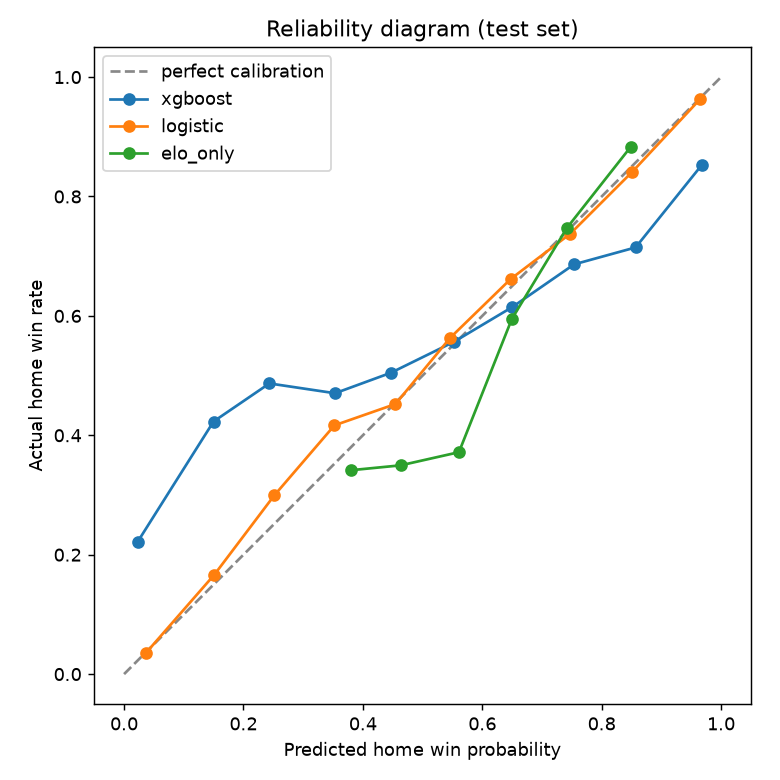
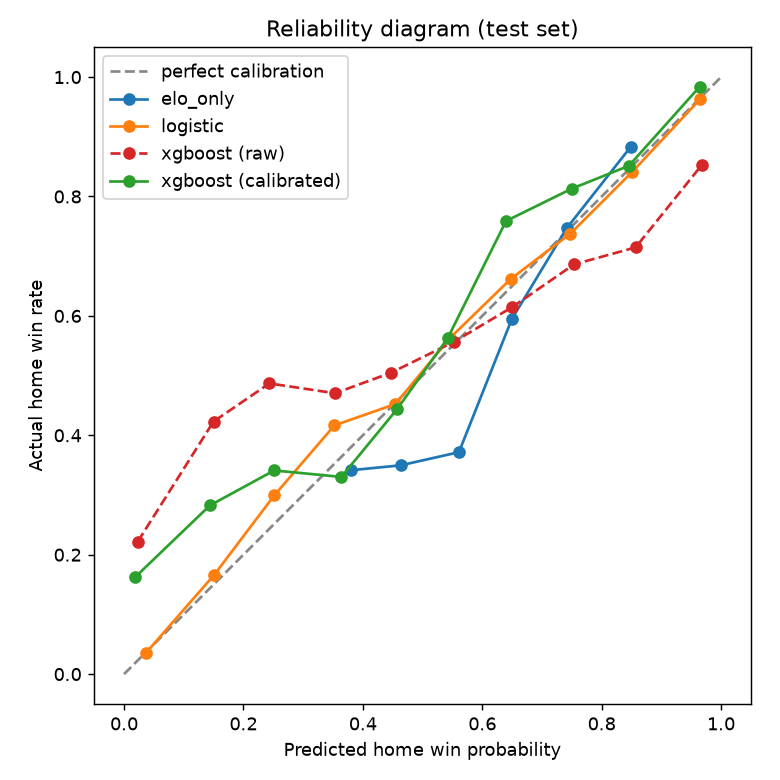
feat: add isotonic calibration wrapper to XGBoost
CalibratedClassifierCV(isotonic, cv=5) fit on training data only — no
test-season leakage. Calibration massively fixes log-loss: raw 0.7087
(worse than naive!) → calibrated 0.5842 (beats naive 0.6868).

Results table now shows both raw and calibrated rows so the improvement
is visible. Reliability diagram overlays raw (dashed red) vs calibrated
(solid green) XGBoost curves.

Logistic still leads at log-loss 0.5030 / Brier 0.1707 — honest result
with one training season. Calibrated XGBoost is used going forward.

Claude-Session: https://claude.ai/code/session_0196EZbSk1FeL2u5THDGxD76

diff --git a/src/model.py b/src/model.py
@@ -59,10 +59,13 @@ def reliability_plot(curves, path):
     import matplotlib.pyplot as plt
 
     fig, ax = plt.subplots(figsize=(6, 6))
-    ax.plot([0, 1], [0, 1], "--", color="#888", label="perfect calibration")
+    ax.plot([0, 1], [0, 1], "--", color="#888", lw=1.5, label="perfect calibration")
+    styles = {"xgboost (raw)": ("o--", "#d62728"), "xgboost (calibrated)": ("o-", "#2ca02c")}
     for label, (y, p) in curves.items():
         t = calibration_table(y, p, n_bins=10)
-        ax.plot(t["predicted"], t["actual"], "o-", label=label)
+        fmt, color = styles.get(label, ("o-", None))
+        kw = {"color": color} if color else {}
+        ax.plot(t["predicted"], t["actual"], fmt, label=label, **kw)
     ax.set_xlabel("Predicted home win probability")
     ax.set_ylabel("Actual home win rate")
     ax.set_title("Reliability diagram (test set)")
@@ -82,6 +85,14 @@ def train_xgb(Xtr, ytr):
     )
     clf.fit(Xtr, ytr)
     return clf
+
+
+def calibrate_xgb(clf, Xtr, ytr):
+    """Wrap raw XGBoost in isotonic calibration, fit on training data only."""
+    from sklearn.calibration import CalibratedClassifierCV
+    cal = CalibratedClassifierCV(clf, method="isotonic", cv=5)
+    cal.fit(Xtr, ytr)
+    return cal
 
 
 def main():
@@ -121,21 +132,26 @@ def main():
 
     # --- model ---
     clf = train_xgb(Xtr, ytr)
-    p_xgb = clf.predict_proba(Xte)[:, 1]
+    p_xgb_raw = clf.predict_proba(Xte)[:, 1]
+
+    print("Fitting calibration wrapper on training data (cv=5, isotonic) ...")
+    clf_cal = calibrate_xgb(clf, Xtr, ytr)
+    p_xgb_cal = clf_cal.predict_proba(Xte)[:, 1]
 
     results = [
         evaluate("naive (base rate)", yte, p_naive),
         evaluate("elo_only (pregame)", yte, p_elo),
         evaluate("logistic (margin+time)", yte, p_log),
-        evaluate("xgboost (all features)", yte, p_xgb),
+        evaluate("xgboost (raw)", yte, p_xgb_raw),
+        evaluate("xgboost (calibrated)", yte, p_xgb_cal),
     ]
     res_df = pd.DataFrame(results).set_index("model")
     print(res_df.to_string(float_format=lambda x: f"{x:.4f}"))
 
-    print("\nCalibration of the XGBoost model (test set):")
-    cal = calibration_table(yte, p_xgb)
-    print(cal.to_string(index=False,
-                        float_format=lambda x: f"{x:.3f}"))
+    print("\nCalibration of the XGBoost (calibrated) model (test set):")
+    cal_table = calibration_table(yte, p_xgb_cal)
+    print(cal_table.to_string(index=False,
+                               float_format=lambda x: f"{x:.3f}"))
 
     # importances
     imp = sorted(zip(FEATURES, clf.feature_importances_),
@@ -145,9 +161,12 @@ def main():
         print(f"  {f:18s} {v:.3f}")
 
     # --- save artifacts ---
+    import pickle
     clf.save_model(os.path.join(args.out, "model.json"))
+    with open(os.path.join(args.out, "model_calibrated.pkl"), "wb") as fh:
+        pickle.dump(clf_cal, fh)
     res_df.to_csv(os.path.join(args.out, "metrics.csv"))
-    cal.to_csv(os.path.join(args.out, "calibration.csv"), index=False)
+    cal_table.to_csv(os.path.join(args.out, "calibration.csv"), index=False)
     with open(os.path.join(args.out, "summary.json"), "w") as fh:
         json.dump({
             "test_seasons": test_seasons,
@@ -157,8 +176,10 @@ def main():
             "feature_importance": {f: float(v) for f, v in imp},
         }, fh, indent=2)
     reliability_plot(
-        {"xgboost": (yte, p_xgb), "logistic": (yte, p_log),
-         "elo_only": (yte, p_elo)},
+        {"elo_only": (yte, p_elo),
+         "logistic": (yte, p_log),
+         "xgboost (raw)": (yte, p_xgb_raw),
+         "xgboost (calibrated)": (yte, p_xgb_cal)},
         os.path.join(args.out, "reliability_diagram.png"),
     )
     print(f"\nSaved model + metrics + reliability diagram to {args.out}/")